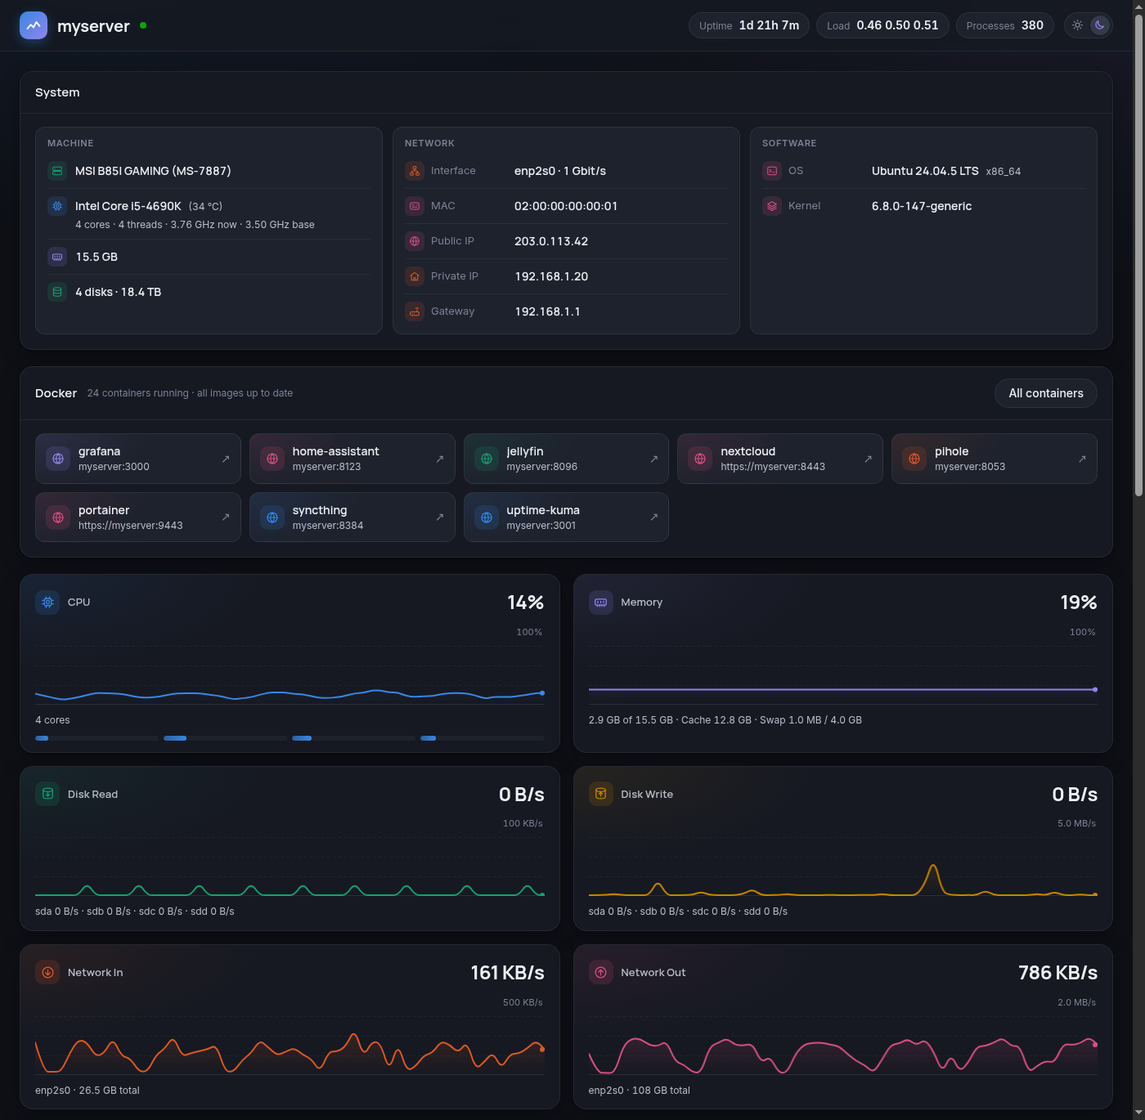
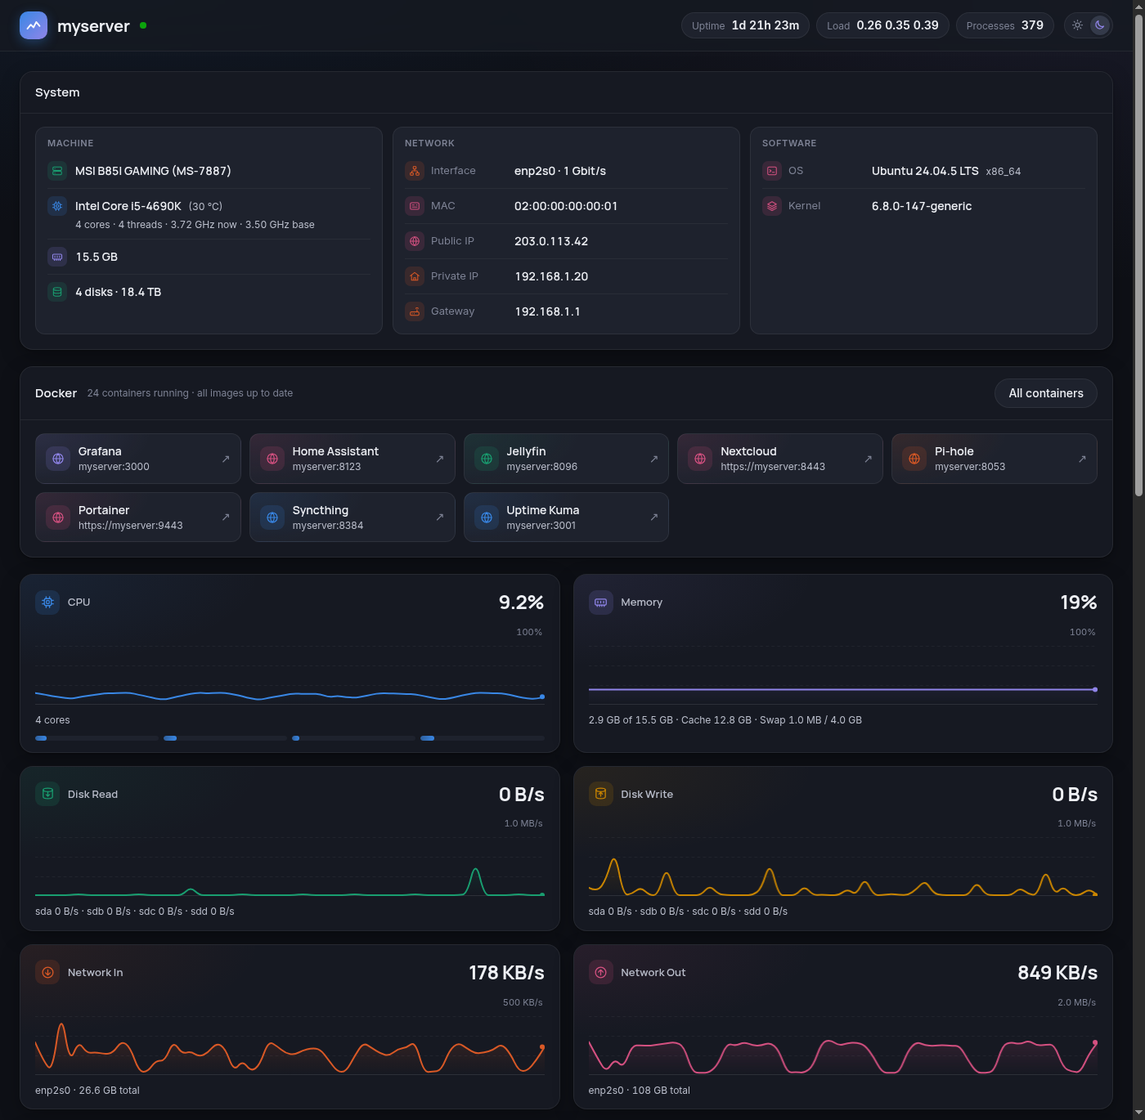
Docker panel: name each card by its page's title
webui.probe reads the <title> while it checks a port, following up to
four redirects that stay on the port, and app_name drops generic parts
such as "Home" or "Login". Without a title the card shows the
container's name.

diff --git a/app/static/app.js b/app/static/app.js
@@ -299,7 +299,7 @@ const APP_COLORS = ["--c-cpu", "--c-mem", "--c-disk-r", "--c-disk-w", "--c-net-i
 const appColor = (name) => APP_COLORS[[...name].reduce((h, ch) => (h * 31 + ch.charCodeAt(0)) >>> 0, 7) % APP_COLORS.length];
 let appsKey = "";
 
-// one card per web page; a container with several gets one per port
+// one card per web page, named by the page's title (the container's name without one); a container with several gets one per port
 function renderApps(s, upd, apps) {
   $("apps-panel").hidden = !apps;
   if (!apps) return;
@@ -311,12 +311,13 @@ function renderApps(s, upd, apps) {
   const key = JSON.stringify(apps);
   if (key === appsKey) return;  // rebuilt only on a change, so a hovered or focused card stays as it is
   appsKey = key;
-  const cards = apps.flatMap((a) => a.web.map((w) => ({ ...a, w })));
+  const cards = apps.flatMap((a) => a.web.map((w) => ({ ...a, w, label: w.title || a.name })))
+    .sort((a, b) => a.label.localeCompare(b.label, undefined, { sensitivity: "base" }));
   $("apps").innerHTML = cards.length ? cards.map((c) => `
-    <a class="app" href="${esc(webUrl(c.w))}" target="_blank" rel="noopener noreferrer" style="--series: var(${appColor(c.name)})" title="Open ${esc(webUrl(c.w))}">
+    <a class="app" href="${esc(webUrl(c.w))}" target="_blank" rel="noopener noreferrer" style="--series: var(${appColor(c.name)})" title="${esc(`${c.name} · open ${webUrl(c.w)}`)}">
       <span class="icon"><svg viewBox="0 0 24 24" fill="none" stroke="currentColor" stroke-width="1.8" stroke-linecap="round" stroke-linejoin="round" aria-hidden="true">${SYS_ICONS.globe}</svg></span>
       <span class="app-text">
-        <span class="app-name">${esc(c.name)}</span>
+        <span class="app-name">${esc(c.label)}</span>
         <span class="app-url"><span class="app-host">${c.w.scheme === "https" ? "https://" : ""}${esc(location.hostname)}</span>:${c.w.port}${c.update ? ' · <b>update available</b>' : ""}</span>
       </span>
       <span class="app-go" aria-hidden="true">↗</span>

diff --git a/app/webui.py b/app/webui.py
@@ -4,10 +4,13 @@ The candidates are the TCP ports Docker publishes on all addresses, and for cont
 ports their processes listen on. When containers share a network namespace (an app routed through a VPN
 container), a port goes to the container whose process listens on it, not to the one that publishes it. Each
 candidate is asked for "/" over http, then https: an HTML page, a redirect or a login prompt counts as a web UI.
+The page's <title> names it on the Docker panel's cards ("Nginx Proxy Manager" rather than "proxy-manager").
 """
 
+import html
 import http.client
 import os
+import re
 import ssl
 import time
 import urllib.parse
@@ -18,6 +21,20 @@ import psutil
 PROBE_CACHE = 600.0
 LOOPBACK = {"0100007F", "00000000000000000000000001000000"}
 DEFAULT_PORT = {"http": 80, "https": 443}
+TITLE_RE = re.compile(rb"<title[^>]*>(.*?)</title", re.I | re.S)
+# Parts of a title that name the page, not the app: "NUT Web - Home", "Login – Nextcloud"
+TITLE_SEP_RE = re.compile(r"\s+[-–—|·:]+\s+")
+GENERIC_RE = re.compile(r"^(home|log ?in|sign ?in|dashboard|welcome|overview|index|main|start|loading.*)$", re.I)
+
+
+def app_name(raw: bytes) -> str:
+    # The app's name from a page's HTML, or "" (the card then shows the container's name)
+    m = TITLE_RE.search(raw)
+    if not m:
+        return ""
+    title = " ".join(html.unescape(m.group(1).decode("utf-8", "replace")).split())
+    name = next((p for p in TITLE_SEP_RE.split(title) if p and not GENERIC_RE.match(p)), "")
+    return name[0].upper() + name[1:] if name.islower() else name
 
 
 def pids_of(main_pid: int) -> set[int]:
@@ -63,16 +80,52 @@ def listening(pid: int) -> list[tuple[int, int, bool]]:
     return found
 
 
-def probe(port: int) -> str | None:
-    # The scheme that serves a web page on this port, or None
-    for scheme in ("http", "https"):
-        if scheme == "http":
-            conn = http.client.HTTPConnection("127.0.0.1", port, timeout=2)
-        else:
-            conn = http.client.HTTPSConnection("127.0.0.1", port, timeout=2, context=ssl._create_unverified_context())
+def get(scheme: str, port: int, path: str) -> http.client.HTTPResponse:
+    if scheme == "http":
+        conn = http.client.HTTPConnection("127.0.0.1", port, timeout=2)
+    else:
+        conn = http.client.HTTPSConnection("127.0.0.1", port, timeout=2, context=ssl._create_unverified_context())
+    conn.request("GET", path, headers={"User-Agent": "kongo", "Accept": "text/html"})
+    r = conn.getresponse()
+    r.conn = conn  # closed by the caller
+    return r
+
+
+def page_title(r: http.client.HTTPResponse) -> str:
+    return app_name(r.read(65536)) if "html" in r.getheader("Content-Type", "") else ""
+
+
+def followed_title(scheme: str, port: int, location: str) -> str:
+    # The title of the page a redirect leads to (often a login page, after "/" → "/manage" → "/manage/login"),
+    # following a few more redirects as long as they stay on this port
+    path = "/"
+    for _ in range(4):
+        target = urllib.parse.urlsplit(urllib.parse.urljoin(f"{scheme}://127.0.0.1:{port}{path}", location))
+        if (target.scheme, target.port or DEFAULT_PORT[target.scheme]) != (scheme, port):
+            return ""
+        path = (target.path or "/") + (f"?{target.query}" if target.query else "")
         try:
-            conn.request("GET", "/", headers={"User-Agent": "kongo", "Accept": "text/html"})
-            r = conn.getresponse()
+            r = get(scheme, port, path)
+        except (http.client.HTTPException, ssl.SSLError, OSError):
+            return ""
+        try:
+            if r.status in (301, 302, 303, 307, 308):
+                location = r.getheader("Location", "")
+                continue
+            return page_title(r) if r.status < 400 else ""
+        finally:
+            r.conn.close()
+    return ""
+
+
+def probe(port: int) -> dict | None:
+    # {"scheme", "title"} of the web page on this port, or None
+    for scheme in ("http", "https"):
+        try:
+            r = get(scheme, port, "/")
+        except (http.client.HTTPException, ssl.SSLError, OSError):
+            continue
+        try:
             if r.status == 400 and scheme == "http":
                 continue  # often "plain HTTP sent to an HTTPS port"
             if r.status in (301, 302, 303, 307, 308):
@@ -80,22 +133,22 @@ def probe(port: int) -> str | None:
                 target = urllib.parse.urlsplit(r.getheader("Location", ""))
                 if target.scheme and (target.scheme, target.port or DEFAULT_PORT[target.scheme]) != (scheme, port):
                     return None
-                return scheme
+                return {"scheme": scheme, "title": followed_title(scheme, port, r.getheader("Location", ""))}
             # a page, or a login prompt; an error page (a proxy's 404) or JSON (an API) is not a UI
             if r.status == 401 or (r.status < 400 and "html" in r.getheader("Content-Type", "")):
-                return scheme
+                return {"scheme": scheme, "title": page_title(r) if r.status < 400 else ""}
             return None
         except (http.client.HTTPException, ssl.SSLError, OSError):
             continue
         finally:
-            conn.close()
+            r.conn.close()
     return None
 
 
 class WebFinder:
     def __init__(self) -> None:
-        # (container id, host port) -> (when asked, scheme or None)
-        self.probes: dict[tuple[str, int], tuple[float, str | None]] = {}
+        # (container id, host port) -> (when asked, {"scheme", "title"} or None)
+        self.probes: dict[tuple[str, int], tuple[float, dict | None]] = {}
 
     def candidates(self, inspect, containers: list[dict]) -> set[tuple[str, int]]:
         # (container id, host port) pairs worth asking
@@ -146,7 +199,7 @@ class WebFinder:
             if not cached or now - cached[0] > PROBE_CACHE:
                 cached = self.probes[(cid, port)] = (now, probe(port))
             if cached[1]:
-                found.setdefault(cid, []).append({"port": port, "scheme": cached[1]})
+                found.setdefault(cid, []).append({"port": port, **cached[1]})
         self.probes = {k: v for k, v in self.probes.items() if k in alive}
         return found
 

diff --git a/CLAUDE.md b/CLAUDE.md
@@ -27,7 +27,7 @@ A web page that shows live stats for a Linux server, in the style of Windows Tas
 - **Filesystems panel** (like `duf`): `_filesystems` reads the host's mounts from `/proc/1/mounts`, not the container's own. It runs `statvfs` on `/proc/1/root/<mount>`, so no extra volume is needed. It lists block devices (not loop devices) and `fuse.*` mounts, and skips `/boot` and `/snap`. Bind mounts are reduced to one row per device. It is rescanned every 10 s. Use% is used/size, as in duf, and the bar colours follow duf's thresholds: yellow from 50 %, red from 90 %.
 - **System panel:** it sits above the meters (the user asked for this). It has three groups side by side (the user sketched and marked up this layout; `groups` in `renderSystem`), each a list of rows with the sub line under the value: Machine (motherboard, CPU, RAM, storage; no labels, `nolabel`, they are only for screen readers), Network (interface, MAC, public IP, private IP, gateway) and Software (OS, kernel). Small text after a value (`extra`) is the CPU temperature in brackets, red at or above the sensor's `high`, and the OS's architecture. Swap, the disk list and the public IP's 30 min interval are only tooltips. Below 1100 px Software goes under the other two, below 700 px all three stack. Each row has an icon chip in the meter colour of its topic (`SYS_ICONS` and the colour token). There is no boot time row: the top bar shows the uptime. Static facts are read once at startup (`_static_info`): OS from the host's `/proc/1/root/etc/os-release`, the board from `/sys/class/dmi` (OEM placeholders such as "System manufacturer" count as empty, `DMI_PLACEHOLDER_RE`; the vendor then comes from `board_vendor`, shortened by `short_vendor` so the tile fits: "ASUSTeK COMPUTER INC." is "ASUS"), and the disks from `/sys/block` (`rotational` decides HDD or SSD). IP, gateway and the container count are refreshed every 10 s. The container count comes from `State.Running` in `config.v2.json`, not from cgroups, because Kongo's own processes see their cgroup as `/` and would be missed. CPU temperature and frequency are live. The public IP is the only outbound call: `public_ip_loop` fetches `PUBLIC_IP_URL` (api.ipify.org) every 30 min, and an empty value turns it off.
 - **Package updates** (the user asked for this, for any package manager): a badge after the host name shows the number of available updates (red if any are security updates), and clicking it opens a `<dialog>` with the list. The logic is in `app/updates.py`: one `Manager` per package manager (apt, dnf5, dnf4, zypper, pacman, apk). `detect` picks the first whose binary exists in the host's root; with none, the badge stays hidden. The check runs the host's own binary with `chroot --userspec=65534:65534 /proc/1/root`, so it runs as nobody and can't change anything. It needs no extra volume and gives exactly what the host's package manager shows, including third-party repos. Each run gets a temporary HOME in the host's `/tmp` (`scratch_home`, owned by the user the run is as), deleted afterwards (dnf5 writes its log there; dnf5 also needs `--setopt=system_cachedir` to read the system cache as non-root). `updates_loop` in `main.py` reruns when the newest mtime of the manager's `installed` or `lists` globs or of `/run/reboot-required` changes (polled every 60 s), and at least every `recheck` (1 h). **Refreshing the lists** (the user asked for every 12 h): when `lists_updated` (newest mtime of the `lists` globs, or the last refresh by Kongo, because a refresh that finds nothing new may touch no file) is older than `UPDATES_REFRESH_HOURS` (default 12, 0 = off and Kongo only reads), the loop runs the manager's `update` **as root** in the chroot: `apt-get update`, `dnf makecache`, `zypper refresh` or `apk update`, as the host's own timers do. If those keep the lists fresh, Kongo never refreshes. A failed refresh (offline, lock held) is logged and retried in 10 min, and the check still runs on the old lists. **Opening the popup** (the user asked for this, so that a restart doesn't miss new updates) calls `POST /api/updates/check`. That adds a future to `updates_waiters` and wakes the loop. The loop refreshes the lists if they are older than `UPDATES_ON_OPEN` (10 min), checks again, and resolves every waiting future, so two tabs share one `apt-get update`. The reply is the fresh list. Meanwhile the popup shows the current list with "checking for new updates…", and Restart and Install are disabled. `loadSeq` keeps a slower, older reply from overwriting the newer one. The endpoint has no password: the worst it can do is an `apt-get update` every 10 min. After a failed check it retries in 10 min and logs the error to `docker logs`. **pacman** never syncs the host's own sync dbs (partial upgrades): `update_pacman` does what `checkupdates` does and syncs a private copy in `/var/cache/kongo/pacman` on the host (seeded from the host's dbs, `local` symlinked; `pacman -Sy` refuses to run as non-root, so that step runs as root). `check_pacman` reads that copy once it exists. Do not move it to `/tmp`: pacman writes there as root, and a local user could plant symlinks in a world-writable directory. Security updates are marked for apt (suite `*-security`) and dnf (a second run with `--security`); zypper's are patches, not package flags, so they are not marked. Restart required comes from `/run/reboot-required` (Debian/Ubuntu, with `.pkgs`), from the running kernel's directory missing under `/usr/lib/modules` (Arch and others remove the old one), from a `/boot/vmlinuz-*` or `/usr/lib/modules/*/vmlinuz` whose **ctime** is after the boot (a kernel installed since then; not mtime, because packages keep their build date as mtime; this caught a real case where Ubuntu's `/run/reboot-required` was missing), and from `zypper needs-rebooting` (exit 102). The tick carries only a summary (`count`, `security`, `reboot`); the dialog fetches the list, the manager name and the upgrade command from `GET /api/updates`. With 0 updates but a restart needed, the badge says "Restart required". On phones the dialog shows one card per package instead of four columns. To test another distro without a VM, start its image as a container on the server, and call `updates.refresh(root, mgr)` and then `updates.check(root, mgr, time.time())` with `root = f"/proc/{pid}/root"` and `mgr = updates.detect(root)` inside the kongo container (pid: host, so its root is reachable). Ubuntu, Fedora 41 (dnf5), Rocky 9 (dnf4), Leap, Tumbleweed, Arch and Alpine were all checked this way against the native command's counts, both reading and refreshing.
-- **Container updates** (the user asked for this): `app/images.py`. It talks to the host's Docker API over `/proc/1/root/run/docker.sock` (not `/var/run/…`: `/var/run` is an absolute symlink and would resolve inside the container), so no volume is needed. For each running container it compares the digests in the image's `RepoDigests` with the digest the registry gives for the tag (a `HEAD` on `/v2/<repo>/manifests/<tag>` with an anonymous Bearer token from the 401's `WWW-Authenticate`; Docker Hub doesn't count `HEAD` against the pull limit). `parse_ref` maps `nginx` to `registry-1.docker.io/library/nginx`. Each container gets one status: `pull` (the registry has a newer image), `recreate` (the tag's local image ≠ the container's `ImageID`, so a newer image is already pulled), `ok`, `local` (no RepoDigests: built here), `pinned` (`@sha256`) or `error`. When the tag has moved on, Docker shows the image id as the container's `Image`, so the name comes from `Config.Image`. Registry answers are cached per ref for `CONTAINER_UPDATES_HOURS` (default 12; the user said 12 h is enough, so opening a popup does **not** ask the registries again). The local side is checked every minute by `images_loop`, so a container that was updated drops off within a minute. The tick's `updates` summary has `containers` (pull + recreate) and `images`. The badge counts them, and the updates popup has a "Docker containers" section with only those that need something, each updatable one with its own **Update** button (the same `data-update` handling as the Docker popup; after a run there, the popup waits for the list that run changed: `images.checked` after a container run, `updatesChecked` after a package run; waiting for both kept every button disabled for up to a minute, because the container endpoint doesn't wake `updates_loop`). **The Docker panel** (under System; the user asked for this) has one card per container web page (`renderApps`, from the tick's `apps`, which `_apps` builds from `images.check`'s `web`), each a link that opens it in a new tab; the card's colour comes from a hash of the name, so it stays put. Its toolbar shows how many containers run and whether updates are available, and its **All containers** button opens `#docker-dialog` with every running container from `GET /api/containers`, updates first, and its sub line says how many updates there are. **Updating containers** (the user asked for this): in the Docker popup, every updatable row has an **Update** button (`data-update`, sets `adminTarget`), and the footer has **Update all** (`adminTarget = null`, so it sends all of `dockerPending`). Both are behind the same password (`POST /api/admin/containers` with the `names`, so only containers the popup showed get recreated). It runs as the same `kongo-upgrade` unit as Install updates (one job at a time; `job()["kind"]` comes from the unit's Description), so the job view, log and busy handling are shared. `images.update_script` writes a script to `/var/cache/kongo/update-containers.sh` (root-only; a file rather than `sh -c`, so systemd-run doesn't expand its `$`, and `shlex.quote` handles the folders). Per project, it runs `cd <working_dir> && docker compose -p … -f <config_files> pull <services> && … up -d`: `up -d` for the whole project, as the hint says, so compose recreates only the changed containers and their dependents (for example an app on a VPN container's network). Only compose containers are `updatable` (they have the `project`/`dir`/`service` labels); `docker run` ones are counted in the hint as "update by hand". While the job runs, `images_loop` waits (5 s polls) and checks as soon as it ends; the endpoint sets `images_wake`. The password form (`#admin-form`) and the job's log (`#job`) are shared by both popups: `mountAdmin(dlg)` moves them into the open one (`.job-slot`, `.dialog-foot`), and `renderJob` works on `activeDlg`. To test it, use a throwaway compose project with an old image tagged `:latest`: call `images.update_script` and `admin.start_containers` from python in the container, then `compose down` and remove it. Never use a real stack. To test the check, tag an old image as `:latest` and run a container from it (status `pull`), then pull the real `:latest` (status `recreate`), and clean up afterwards.
+- **Container updates** (the user asked for this): `app/images.py`. It talks to the host's Docker API over `/proc/1/root/run/docker.sock` (not `/var/run/…`: `/var/run` is an absolute symlink and would resolve inside the container), so no volume is needed. For each running container it compares the digests in the image's `RepoDigests` with the digest the registry gives for the tag (a `HEAD` on `/v2/<repo>/manifests/<tag>` with an anonymous Bearer token from the 401's `WWW-Authenticate`; Docker Hub doesn't count `HEAD` against the pull limit). `parse_ref` maps `nginx` to `registry-1.docker.io/library/nginx`. Each container gets one status: `pull` (the registry has a newer image), `recreate` (the tag's local image ≠ the container's `ImageID`, so a newer image is already pulled), `ok`, `local` (no RepoDigests: built here), `pinned` (`@sha256`) or `error`. When the tag has moved on, Docker shows the image id as the container's `Image`, so the name comes from `Config.Image`. Registry answers are cached per ref for `CONTAINER_UPDATES_HOURS` (default 12; the user said 12 h is enough, so opening a popup does **not** ask the registries again). The local side is checked every minute by `images_loop`, so a container that was updated drops off within a minute. The tick's `updates` summary has `containers` (pull + recreate) and `images`. The badge counts them, and the updates popup has a "Docker containers" section with only those that need something, each updatable one with its own **Update** button (the same `data-update` handling as the Docker popup; after a run there, the popup waits for the list that run changed: `images.checked` after a container run, `updatesChecked` after a package run; waiting for both kept every button disabled for up to a minute, because the container endpoint doesn't wake `updates_loop`). **The Docker panel** (under System; the user asked for this) has one card per container web page (`renderApps`, from the tick's `apps`, which `_apps` builds from `images.check`'s `web`), each a link that opens it in a new tab. A card is named by the page's `<title>` (the user asked for the apps' real names: "Nginx Proxy Manager", not "proxy-manager"), which `webui.probe` reads while it checks the port, following up to four redirects that stay on the port (UniFi goes `/` → `/manage` → its login page). `app_name` drops generic parts such as "Home" or "Login" ("NUT Web - Home" is "NUT Web") and capitalizes an all-lowercase title; with no title the card shows the container's name. Cards are sorted by the name shown; the card's colour comes from a hash of the name, so it stays put. Its toolbar shows how many containers run and whether updates are available, and its **All containers** button opens `#docker-dialog` with every running container from `GET /api/containers`, updates first, and its sub line says how many updates there are. **Updating containers** (the user asked for this): in the Docker popup, every updatable row has an **Update** button (`data-update`, sets `adminTarget`), and the footer has **Update all** (`adminTarget = null`, so it sends all of `dockerPending`). Both are behind the same password (`POST /api/admin/containers` with the `names`, so only containers the popup showed get recreated). It runs as the same `kongo-upgrade` unit as Install updates (one job at a time; `job()["kind"]` comes from the unit's Description), so the job view, log and busy handling are shared. `images.update_script` writes a script to `/var/cache/kongo/update-containers.sh` (root-only; a file rather than `sh -c`, so systemd-run doesn't expand its `$`, and `shlex.quote` handles the folders). Per project, it runs `cd <working_dir> && docker compose -p … -f <config_files> pull <services> && … up -d`: `up -d` for the whole project, as the hint says, so compose recreates only the changed containers and their dependents (for example an app on a VPN container's network). Only compose containers are `updatable` (they have the `project`/`dir`/`service` labels); `docker run` ones are counted in the hint as "update by hand". While the job runs, `images_loop` waits (5 s polls) and checks as soon as it ends; the endpoint sets `images_wake`. The password form (`#admin-form`) and the job's log (`#job`) are shared by both popups: `mountAdmin(dlg)` moves them into the open one (`.job-slot`, `.dialog-foot`), and `renderJob` works on `activeDlg`. To test it, use a throwaway compose project with an old image tagged `:latest`: call `images.update_script` and `admin.start_containers` from python in the container, then `compose down` and remove it. Never use a real stack. To test the check, tag an old image as `:latest` and run a container from it (status `pull`), then pull the real `:latest` (status `recreate`), and clean up afterwards.
 - **Open buttons** (the user asked for this): `app/webui.py` finds which containers serve a web page, and `images.check` puts the result in each row's `web` (`[{port, scheme}]`). The candidates are TCP ports Docker publishes on 0.0.0.0/::, and for `network_mode: host` containers the ports in the host's `/proc/<pid>/net/tcp{,6}` that are LISTEN on a non-loopback address and whose socket inode is held by one of the container's processes (the main pid from inspect plus its children, through `/proc/<pid>/fd`; pid: host makes that the host's /proc). Containers with `NetworkMode: container:<id>` publish nothing themselves. For the container that does publish (for example a VPN container), each published port goes to the container in the shared namespace whose process holds the socket listening on the private port, so qbittorrent gets 8080, not gluetun. Kongo skips itself (its own pid is in the container). Each candidate gets `GET /` over http, then https (unverified). It counts when the answer is HTML with status < 400, a 401, or a redirect that stays on the same scheme and port (unifi's inform port redirects to https on an http port, so it doesn't count). A 400 on http means trying https; a proxy's 404 page doesn't count. Answers are cached per (container id, port) for 10 min. The button opens `scheme://<the page's hostname>:<port>/`; with several web ports, each is labeled with its port. It has its own column (`td.web`) before Update; on phones both sit on a row of their own under the status.
 - **New versions reach open pages** (a stale `app.js` kept a fixed bug alive on the second server): `VERSION` in `main.py` is a hash of `index.html`, `app.js` and `style.css`. `/` serves `index.html` with `?v=<VERSION>` on both files and `Cache-Control: no-cache`, so a new Kongo is never taken from the browser's cache. The `init` message carries the version, and a page that reconnects to another one reloads itself (`reloadIfNew`), but only once no `<dialog>` is open, so a job's log or the restart view isn't cut off. Pages from before this change need one manual reload.
 - Users that show up as numbers (201, 999) are users inside other containers that have no entry in the host's passwd. This is expected.
